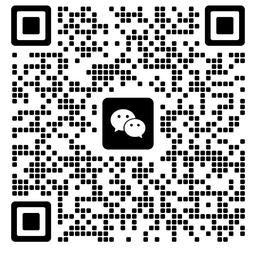
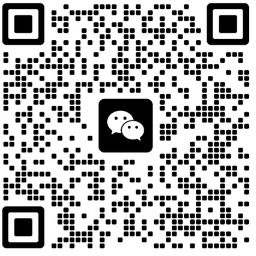
更新群信息

diff --git a/README.md b/README.md
@@ -2,8 +2,6 @@
 
 | [快速开始](#快速开始) | [部署DeepSeek](docs/deepseek.md) | [部署Qwen3](docs/qwen3.md) | [版本日志](docs/version.md) | [English Document](README_EN.md)
 
-- 近期更新较大，发布了 `fastllm-nightly` 版本供提前体验，使用文档参见 [fastllm-nightly 使用文档](docs/nightly.md)
-
 # 引用说明
 
 本项目参考了许多开源项目的代码和相关文章，具体请参考 [参考代码和文章](#参考代码和文章)
@@ -16,13 +14,16 @@ fastllm是c++实现自有算子替代Pytorch的高性能全功能大模型推理
 - 任意显卡只需要显存 > 10G就可以支持单卡推理满血DeepSeek R1 671B模型
 - 双路9004/9005服务器 + 单显卡部署DeepSeek R1 671B - FP8原版模型，单并发速度可达20左右，部署INT4模型单并发速度可达30左右，最高并发速度可达60+
 
-部署交流QQ群： 831641348
+部署交流QQ群：831641348
 
-微信群：目前群聊超过200人，请添加小助手微信号`fastllmxzs`加群: 
+**微信**
+
+- **用户交流群**（使用、部署等问题）：![用户交流群二维码](docs/wechat_group0.jpg)
+- **社区开发群**（参与贡献与开发讨论）：![社区开发群二维码](docs/develop-group.png)
 
 ## 新功能速览
 
-- Fastllm目前支持Qwen3-Next模型的混合推理了！
+- Fastllm目前支持DeepSeek-V4模型了
 - Fastllm目前支持导出通用动态量化模型了！参考[动态量化说明](docs/dtype_config.md)
 - Fastllm目前可以支持部分GGUF模型的读取了！需要注意，目前需要使用`--ori`参数指定源模型配置文件夹，请阅读 [使用指南](#使用指南)
 
@@ -44,7 +45,6 @@ fastllm是c++实现自有算子替代Pytorch的高性能全功能大模型推理
 
 ### 安装
 
-
 - `pip`安装支持`Nvidia GPU`和`AMD GPU`，其余`GPU`请使用[源码安装](#源码安装)
 - `pip`安装速度慢时，可使用镜像加速
 
@@ -53,14 +53,6 @@ pip config set global.index-url https://mirrors.tuna.tsinghua.edu.cn/pypi/web/si
 ```
 
 #### Linux系统 + Nvidia GPU:
-
-由于目前PyPI限制库大小，安装包中不含CUDA依赖，安装ftllm之前建议先手动安装CUDA 12以上版本 (已安装cuda可跳过)
-```
-wget https://developer.download.nvidia.com/compute/cuda/12.8.1/local_installers/cuda_12.8.1_570.124.06_linux.run
-sudo sh cuda_12.8.1_570.124.06_linux.run
-```
-
-然后用pip安装，命令如下：
 
 ```
 pip install ftllm -U
